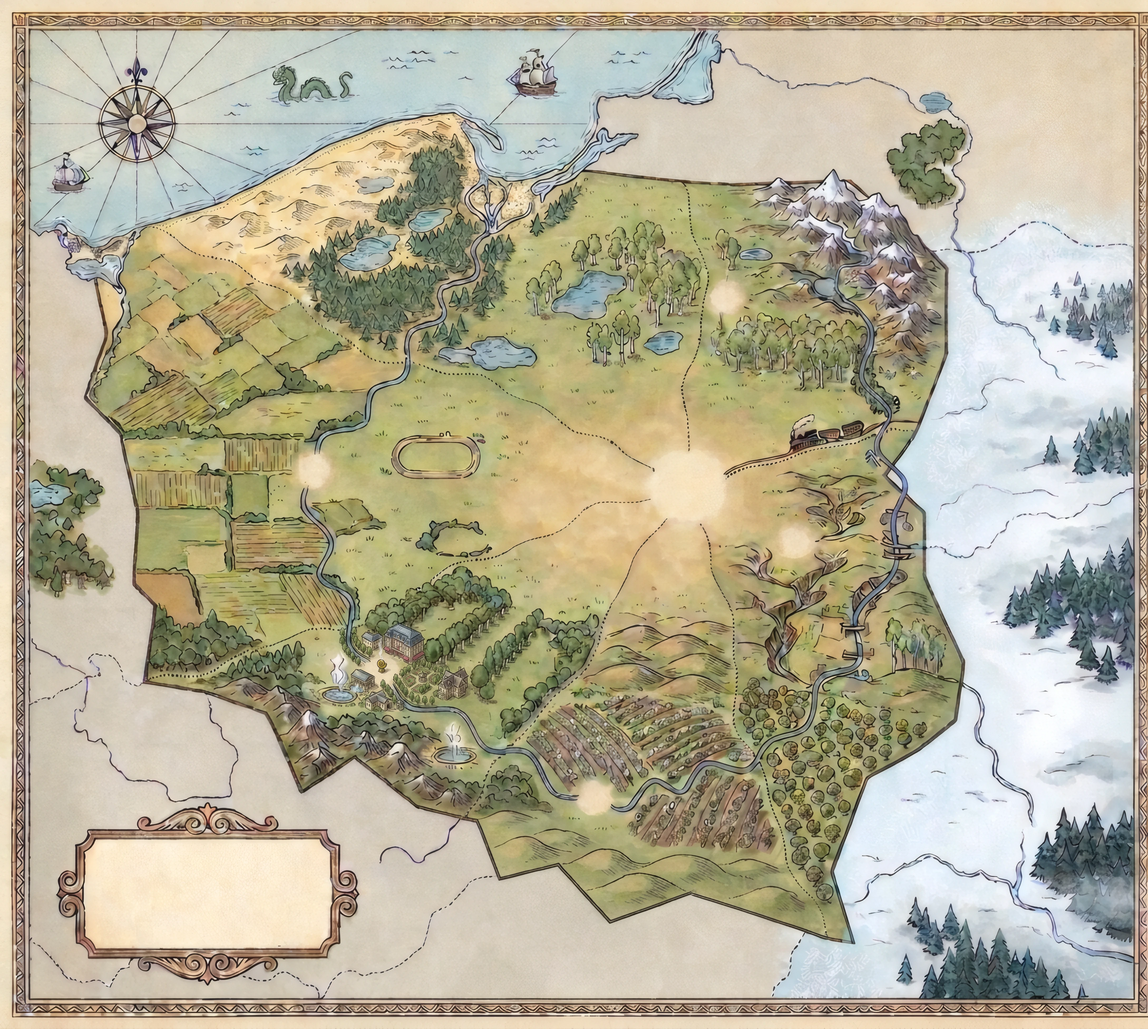
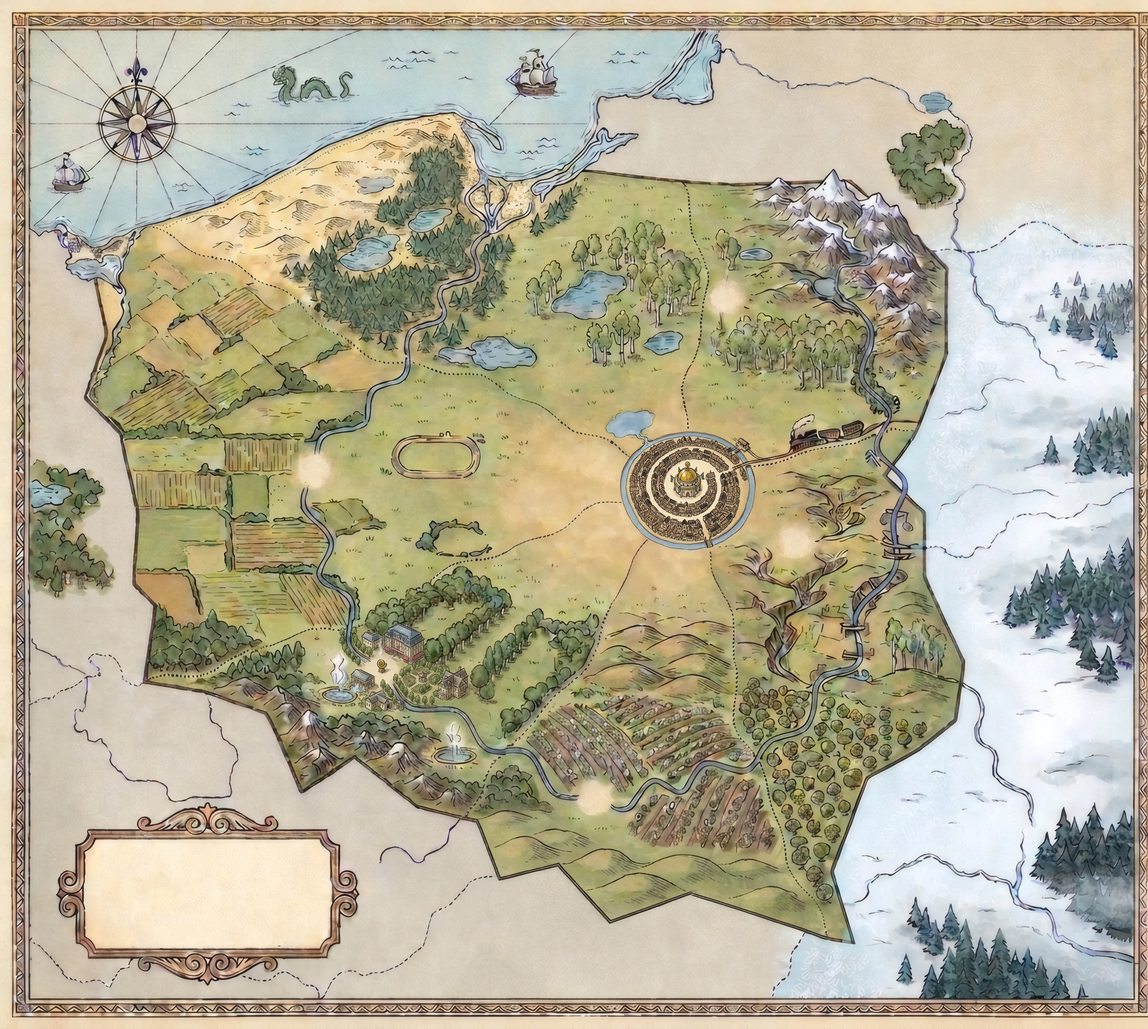
docs(lore): vignette de Sandomir posée sur la carte

Changed region(s): [[0.5308, 0.375, 0.6556, 0.5312]]

diff --git a/docs/wip/illustrations-progress.md b/docs/wip/illustrations-progress.md
@@ -5,7 +5,7 @@
 _Mis à jour le 2026-10-29, fond de la grande carte figé en haute définition (pas de PR : chantier 100 % doc)._
 
 - **État** : casting, gouverneurs et Palotins versés au Compendium (§ XI) ; plans des sept capitales au Compendium. **Fond de la grande carte FIGÉ** : `carte/fond-carte-hd.webp` (4356×3904, WebP q92 ; PNG maître de 32 Mo chez David, `~/Downloads/fond-carte-hd-2026-10-29.png`, hors dépôt). Chaîne : Nano Banana (style carte de conte / carte marine, référence `carte/plan-reference-ia.png`) → retouches une à une (`carte/fond-retouche-2026-10-29.jpeg`, 1089×976) → Upscayl ×4, modèle High Fidelity (Digital Art durcit les traits en BD, Standard floute). Pas de clairière à Sinusborg (sa vignette couvrira le delta). Leçon : chaque retouche Nano Banana dégrade l'image ; nouvelle conversation, une retouche par demande.
-- **Prochaine action** : vignettes des villes, une par une (Empoche-les-Bains faite ; méthode en bas de page ; Sandomir : lac voisin et douves, Compendium à jour ; Turingrad doit déborder jusqu’à la Vistule), puis noms et contour en SVG (masquer le bout de pointillé qui déborde à l'est), encart de l'Isle (le cartouche a pris le coin bas-gauche) ; ensuite les cartes de chaque capitale.
+- **Prochaine action** : vignettes des villes, une par une (Empoche-les-Bains et Sandomir faites ; méthode en bas de page ; Sandomir : lac voisin et douves, Compendium à jour ; Turingrad doit déborder jusqu’à la Vistule), puis noms et contour en SVG (masquer le bout de pointillé qui déborde à l'est), encart de l'Isle (le cartouche a pris le coin bas-gauche) ; ensuite les cartes de chaque capitale.
 - **En attente de David** : rien.
 - **Pièges en cours** : **pas de formes géométriques plaquées sur le paysage** (David, 2026-10-29) : la discipline de chaque province ne se montre que dans sa ville. Ubu sans chapeau pointu ni longue robe blanche ; joindre l'image d'Ubu comme référence à chaque nouveau personnage ; noms de couleurs en anglais courant ; références sans texte ; jamais de personne réelle nommée. Le Lexique décrit encore Turingrad « brutaliste soviétique » : ne pas y toucher sans demande.
 - **Worktree / branche** : aucun, commits doc directs sur `main`.
@@ -64,4 +64,4 @@ style: 1896 Montmartre lithographic poster in the manner of Théophile-Alexandre
 
 Plan schématique SVG validé par David → fond par l'IA sans texte, guidé par le plan → vignettes de villes générées une à une → décor (cartouche, rose des vents, encart) → noms en SVG posés à la main (orthographe sûre, carte cliquable sur le site).
 
-**Vignettes des villes** (validé par David, 2026-10-29) : carré de 768 px découpé dans `fond-carte-hd.webp` autour de chaque clairière (coins dans `carte/vignettes/recoller.sh`) → Nano Banana, nouvelle conversation par ville, le carré seul en pièce jointe, « draw a small town in the pale round clearing… keep everything outside exactly as it is » → image rangée sous `vignettes/<ville>-ia.webp` → `bash vignettes/recoller.sh` recolle tout sur le fond (masque = différence avec le carré d’origine) et produit `carte-villes-hd.webp`. Empoche-les-Bains : 1er essai retenu, l’IA n’a rien bougé hors de la ville.
+**Vignettes des villes** (validé par David, 2026-10-29) : carré de 768 px découpé dans `fond-carte-hd.webp` autour de chaque clairière (coins dans `carte/vignettes/recoller.sh`) → Nano Banana, nouvelle conversation par ville, le carré seul en pièce jointe, « draw a small town in the pale round clearing… keep everything outside exactly as it is » → image rangée sous `vignettes/<ville>-ia.webp` → `bash vignettes/recoller.sh` recolle tout sur le fond (masque = différence avec le carré d’origine) et produit `carte-villes-hd.webp`. Empoche-les-Bains : 1er essai retenu, l’IA n’a rien bougé hors de la ville. Sandomir : 2e essai retenu (le 1er redessinait tout le carré et agrandissait la ville) ; réserves acceptées par David : les rails franchissent les douves, anneaux plus que spirale.
